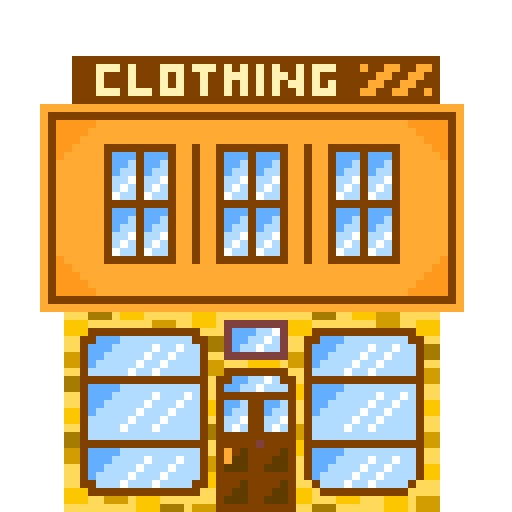
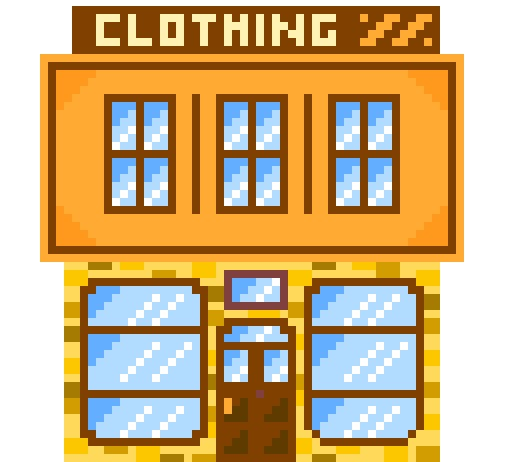
Add pixel art citizens and fix sprite building issues
- Add custom pixel art citizen sprite with side profile
- Implement sprite flipping based on walk direction
- Fix resize handler to properly reposition sprite buildings and citizens
- Fix save/load system to preserve sprite-based buildings
- Crop clothing shop image to remove top sign
- Raise "Press E to enter" prompts 80px higher to avoid covering buildings
- Add sprite visibility handling for multi-street system

diff --git a/src/systems/SaveSystem.js b/src/systems/SaveSystem.js
@@ -51,6 +51,7 @@ export class SaveSystem {
                         type: b.type,
                         x: b.x,
                         y: b.y,
+                        useSprite: !!b.sprite, // Save whether this building uses a sprite
                         streetNumber: b.streetNumber || 1, // Which street this building is on
                         accumulatedIncome: b.accumulatedIncome || 0,
                         lastIncomeTime: b.lastIncomeTime || Date.now(),
@@ -204,6 +205,7 @@ export class SaveSystem {
                         buildingData.type,
                         buildingData.x,
                         buildingData.y,
+                        buildingData.useSprite || false, // Whether to use sprite
                         buildingData.streetNumber || 1, // Street number
                         buildingData.accumulatedIncome || 0,
                         buildingData.lastIncomeTime || Date.now(),
@@ -244,8 +246,8 @@ export class SaveSystem {
         }
     }
 
-    loadBuilding(type, x, y, streetNumber = 1, accumulatedIncome = 0, lastIncomeTime = Date.now(), storedResources = 0, lastResourceTime = Date.now(), units = null, rooms = null, lastNightCheck = null, placedDistrict = null, districtBonus = 1.0, inventory = null, hasEmployee = null, isOpen = null, dailyWage = null, lastWageCheck = null, lastAutoClean = null, facadeVariation = 0, hasMaid = null, maidDailyWage = null, lastMaidWageCheck = null, lastMaidClean = null, tables = null, hasDayWaiter = null, hasNightWaiter = null, dayWaiterWage = null, nightWaiterWage = null, mealPrice = null) {
-        console.log(`🔍 Attempting to load building: type=${type}, x=${x}`);
+    loadBuilding(type, x, y, useSprite = false, streetNumber = 1, accumulatedIncome = 0, lastIncomeTime = Date.now(), storedResources = 0, lastResourceTime = Date.now(), units = null, rooms = null, lastNightCheck = null, placedDistrict = null, districtBonus = 1.0, inventory = null, hasEmployee = null, isOpen = null, dailyWage = null, lastWageCheck = null, lastAutoClean = null, facadeVariation = 0, hasMaid = null, maidDailyWage = null, lastMaidWageCheck = null, lastMaidClean = null, tables = null, hasDayWaiter = null, hasNightWaiter = null, dayWaiterWage = null, nightWaiterWage = null, mealPrice = null) {
+        console.log(`🔍 Attempting to load building: type=${type}, x=${x}, useSprite=${useSprite}`);
         const building = this.scene.buildingTypes[type];
         if (!building) {
             console.error(`❌ Building type '${type}' not found in buildingTypes!`);
@@ -259,23 +261,45 @@ export class SaveSystem {
 
         console.log(`Drawing ${type} at x=${x}, y=${buildingY}, width=${building.width}, height=${building.height}`);
 
-        const newBuilding = this.scene.add.graphics();
-        newBuilding.setDepth(10); // Buildings are on top of background
+        let newBuilding;
+        let buildingSprite = null;
 
-        // Don't draw base rectangle for parks/recreation items and theme park (they draw everything custom)
-        if (type !== 'park' && type !== 'playground' && type !== 'fountain' && type !== 'themePark') {
-            newBuilding.fillStyle(building.color, 1);
-            newBuilding.fillRect(x - building.width/2, buildingY - building.height, building.width, building.height);
-            newBuilding.lineStyle(3, 0x000000, 1);
-            newBuilding.strokeRect(x - building.width/2, buildingY - building.height, building.width, building.height);
-        }
+        // Use sprite for buildings that were saved with sprites
+        if (useSprite && type === 'clothingShop' && this.scene.textures.exists('clothingShop')) {
+            // Create sprite for clothing shop
+            const spriteWidth = building.width * 1.5;
+            const spriteHeight = building.height * 1.5;
 
-        // Draw detailed building features (windows, doors, roof, etc.)
-        try {
-            this.scene.buildingRenderer.drawBuildingDetails(newBuilding, type, x, buildingY, facadeVariation);
-            console.log(`Successfully drew details for ${type}`);
-        } catch (error) {
-            console.error(`Error drawing details for ${type}:`, error);
+            buildingSprite = this.scene.add.sprite(x, buildingY - spriteHeight / 2, 'clothingShop');
+            buildingSprite.setDepth(10);
+            buildingSprite.setVisible(streetNumber === this.scene.currentStreet);
+            buildingSprite.setOrigin(0.5, 0.5);
+            buildingSprite.setDisplaySize(spriteWidth, spriteHeight);
+
+            // Create empty graphics object for consistency
+            newBuilding = this.scene.add.graphics();
+            newBuilding.setDepth(10);
+            newBuilding.setVisible(streetNumber === this.scene.currentStreet);
+        } else {
+            // Use graphics for all other buildings
+            newBuilding = this.scene.add.graphics();
+            newBuilding.setDepth(10); // Buildings are on top of background
+
+            // Don't draw base rectangle for parks/recreation items and theme park (they draw everything custom)
+            if (type !== 'park' && type !== 'playground' && type !== 'fountain' && type !== 'themePark') {
+                newBuilding.fillStyle(building.color, 1);
+                newBuilding.fillRect(x - building.width/2, buildingY - building.height, building.width, building.height);
+                newBuilding.lineStyle(3, 0x000000, 1);
+                newBuilding.strokeRect(x - building.width/2, buildingY - building.height, building.width, building.height);
+            }
+
+            // Draw detailed building features (windows, doors, roof, etc.)
+            try {
+                this.scene.buildingRenderer.drawBuildingDetails(newBuilding, type, x, buildingY, facadeVariation);
+                console.log(`Successfully drew details for ${type}`);
+            } catch (error) {
+                console.error(`Error drawing details for ${type}:`, error);
+            }
         }
 
         // Building signs are now handled by addBuildingSign() function
@@ -294,6 +318,7 @@ export class SaveSystem {
         // Add loaded building with income and resource tracking (use buildingY for current ground level)
         const buildingData = {
             graphics: newBuilding,
+            sprite: buildingSprite, // Store sprite reference if it exists
             type: type,
             x: x,
             y: buildingY,

diff --git a/src/game.js b/src/game.js
@@ -30,6 +30,9 @@ class MainScene extends Phaser.Scene {
 
         // Load mayor sprite
         this.load.image('mayor', 'assets/mayor.png');
+
+        // Load citizen sprite
+        this.load.image('citizen', 'assets/citizen.png');
     }
 
     create() {
@@ -2261,6 +2264,15 @@ class MainScene extends Phaser.Scene {
             const buildingType = this.buildingTypes[building.type];
             const newBuildingY = this.gameHeight - 100;
 
+            // Skip redrawing sprite-based buildings (clothing shop)
+            if (building.sprite) {
+                // Just reposition the sprite (accounting for 1.5x scale)
+                const spriteHeight = buildingType.height * 1.5;
+                building.sprite.y = newBuildingY - spriteHeight / 2;
+                building.y = newBuildingY;
+                continue;
+            }
+
             // Clear and redraw building
             building.graphics.clear();
 
@@ -2293,6 +2305,15 @@ class MainScene extends Phaser.Scene {
         if (this.player.y > newPlatformY - 50) {
             this.player.y = newPlatformY - 50;
             this.playerVisual.y = this.player.y;
+        }
+
+        // Reposition all citizens to new ground level
+        const newCitizenY = newPlatformY - 30;
+        for (let citizen of this.citizens) {
+            if (citizen.container) {
+                citizen.y = newCitizenY;
+                citizen.container.y = newCitizenY;
+            }
         }
 
         // Update background layers
@@ -4821,7 +4842,7 @@ class MainScene extends Phaser.Scene {
                 // Show prompt above the shop building
                 const shopType = this.buildingTypes[this.nearShop.type];
                 if (!this.shopPrompt) {
-                    this.shopPrompt = this.add.text(this.nearShop.x, this.nearShop.y - shopType.height - 100, 'Press E to enter Shop', {
+                    this.shopPrompt = this.add.text(this.nearShop.x, this.nearShop.y - shopType.height - 180, 'Press E to enter Shop', {
                         fontSize: '12px',
                         color: '#ffffff',
                         backgroundColor: '#4ECDC4',
@@ -4829,7 +4850,7 @@ class MainScene extends Phaser.Scene {
                     }).setOrigin(0.5).setDepth(1000);
                 } else {
                     this.shopPrompt.x = this.nearShop.x;
-                    this.shopPrompt.y = this.nearShop.y - shopType.height - 100;
+                    this.shopPrompt.y = this.nearShop.y - shopType.height - 180;
                     this.shopPrompt.setVisible(true);
                 }
 
@@ -4863,7 +4884,7 @@ class MainScene extends Phaser.Scene {
                 // Show prompt above the hotel building
                 const hotelType = this.buildingTypes[this.nearHotel.type];
                 if (!this.hotelPrompt) {
-                    this.hotelPrompt = this.add.text(this.nearHotel.x, this.nearHotel.y - hotelType.height - 100, 'Press E to enter Hotel', {
+                    this.hotelPrompt = this.add.text(this.nearHotel.x, this.nearHotel.y - hotelType.height - 180, 'Press E to enter Hotel', {
                         fontSize: '12px',
                         color: '#ffffff',
                         backgroundColor: '#9C27B0',
@@ -4905,7 +4926,7 @@ class MainScene extends Phaser.Scene {
                 // Show prompt above the restaurant building
                 const restaurantType = this.buildingTypes[this.nearRestaurant.type];
                 if (!this.restaurantPrompt) {
-                    this.restaurantPrompt = this.add.text(this.nearRestaurant.x, this.nearRestaurant.y - restaurantType.height - 100, 'Press E to enter Restaurant', {
+                    this.restaurantPrompt = this.add.text(this.nearRestaurant.x, this.nearRestaurant.y - restaurantType.height - 180, 'Press E to enter Restaurant', {
                         fontSize: '12px',
                         color: '#ffffff',
                         backgroundColor: '#FFE66D',
@@ -4952,7 +4973,7 @@ class MainScene extends Phaser.Scene {
                 // Show prompt above the school building
                 const schoolType = this.buildingTypes[nearSchool.type];
                 if (!this.schoolPrompt) {
-                    this.schoolPrompt = this.add.text(nearSchool.x, nearSchool.y - schoolType.height - 100, 'Press E to enter School', {
+                    this.schoolPrompt = this.add.text(nearSchool.x, nearSchool.y - schoolType.height - 180, 'Press E to enter School', {
                         fontSize: '12px',
                         color: '#ffffff',
                         backgroundColor: '#FFC107',
@@ -5202,7 +5223,7 @@ class MainScene extends Phaser.Scene {
                 if (totalRent < 1) {
                     const apartmentType = this.buildingTypes[this.nearApartment.type];
                     if (!this.apartmentPrompt) {
-                        this.apartmentPrompt = this.add.text(this.nearApartment.x, this.nearApartment.y - apartmentType.height - 100, 'Press E to enter Apartment', {
+                        this.apartmentPrompt = this.add.text(this.nearApartment.x, this.nearApartment.y - apartmentType.height - 180, 'Press E to enter Apartment', {
                             fontSize: '12px',
                             color: '#ffffff',
                             backgroundColor: '#795548',

diff --git a/src/systems/CitizenSystem.js b/src/systems/CitizenSystem.js
@@ -119,78 +119,16 @@ export class CitizenSystem {
         const citizen = this.scene.add.container(startX, startY);
         citizen.setDepth(11); // Above buildings (10), below buses (12)
 
-        // Randomize citizen appearance
-        const skinTones = [0xFFDBAC, 0xF1C27D, 0xE0AC69, 0xC68642, 0x8D5524, 0x5C3317];
-        const shirtColors = [0x2196F3, 0xF44336, 0x4CAF50, 0xFF9800, 0x9C27B0, 0x00BCD4, 0xE91E63];
-        const pantColors = [0x1565C0, 0x424242, 0x795548, 0x5D4037];
-
-        const skinTone = skinTones[Math.floor(Math.random() * skinTones.length)];
-        const shirtColor = shirtColors[Math.floor(Math.random() * shirtColors.length)];
-        const pantColor = pantColors[Math.floor(Math.random() * pantColors.length)];
-
         // Shadow
         const shadow = this.scene.add.ellipse(0, 28, 20, 6, 0x000000, 0.3);
         citizen.add(shadow);
 
-        // Legs
-        const leftLeg = this.scene.add.graphics();
-        leftLeg.fillStyle(pantColor, 1);
-        leftLeg.fillRoundedRect(-6, 6, 6, 14, 2);
-        citizen.add(leftLeg);
-
-        const rightLeg = this.scene.add.graphics();
-        rightLeg.fillStyle(pantColor, 1);
-        rightLeg.fillRoundedRect(0, 6, 6, 14, 2);
-        citizen.add(rightLeg);
-
-        // Shoes
-        const leftShoe = this.scene.add.ellipse(-3, 22, 8, 4, 0x000000);
-        const rightShoe = this.scene.add.ellipse(3, 22, 8, 4, 0x000000);
-        citizen.add(leftShoe);
-        citizen.add(rightShoe);
-
-        // Body (shirt)
-        const body = this.scene.add.graphics();
-        body.fillStyle(shirtColor, 1);
-        body.fillRoundedRect(-8, -12, 16, 20, 3);
-        citizen.add(body);
-
-        // Arms
-        const leftArm = this.scene.add.graphics();
-        leftArm.fillStyle(shirtColor, 1);
-        leftArm.fillRoundedRect(-12, -6, 4, 10, 2);
-        citizen.add(leftArm);
-
-        const rightArm = this.scene.add.graphics();
-        rightArm.fillStyle(shirtColor, 1);
-        rightArm.fillRoundedRect(8, -6, 4, 10, 2);
-        citizen.add(rightArm);
-
-        // Hands
-        const leftHand = this.scene.add.circle(-10, 6, 3, skinTone);
-        const rightHand = this.scene.add.circle(10, 6, 3, skinTone);
-        citizen.add(leftHand);
-        citizen.add(rightHand);
-
-        // Neck
-        const neck = this.scene.add.rectangle(0, -14, 4, 3, skinTone);
-        citizen.add(neck);
-
-        // Head
-        const head = this.scene.add.circle(0, -20, 8, skinTone);
-        citizen.add(head);
-
-        // Eyes
-        const leftEye = this.scene.add.circle(-3, -21, 1.5, 0x000000);
-        const rightEye = this.scene.add.circle(3, -21, 1.5, 0x000000);
-        citizen.add(leftEye);
-        citizen.add(rightEye);
-
-        // Random hair color and style
-        const hairColors = [0x000000, 0x3E2723, 0x5D4037, 0xFFD700, 0xF44336];
-        const hairColor = hairColors[Math.floor(Math.random() * hairColors.length)];
-        const hair = this.scene.add.circle(0, -24, 6, hairColor);
-        citizen.add(hair);
+        // Add pixel art citizen sprite
+        const citizenSprite = this.scene.add.sprite(0, 0, 'citizen');
+        citizenSprite.setOrigin(0.5, 0.5);
+        // Scale to appropriate size (0.15x since original is 512x512)
+        citizenSprite.setScale(0.15);
+        citizen.add(citizenSprite);
 
         // Store citizen data
         const targetBuilding = this.scene.buildings.length > 0
@@ -199,6 +137,7 @@ export class CitizenSystem {
 
         this.scene.citizens.push({
             container: citizen,
+            sprite: citizenSprite, // Store sprite reference for flipping
             x: startX,
             y: startY,
             state: 'walking', // walking, waiting, riding, visiting
@@ -335,6 +274,11 @@ export class CitizenSystem {
                 const distance = citizen.walkSpeed * deltaTime;
                 citizen.x += distance * citizen.direction;
                 citizen.container.x = citizen.x;
+
+                // Flip sprite based on direction (right = normal, left = flipped)
+                if (citizen.sprite) {
+                    citizen.sprite.setFlipX(citizen.direction < 0);
+                }
 
                 // Randomly decide to go to a bus stop
                 if (Math.random() < 0.001 && this.scene.busStops && this.scene.busStops.length > 0) { // 0.1% chance per frame
